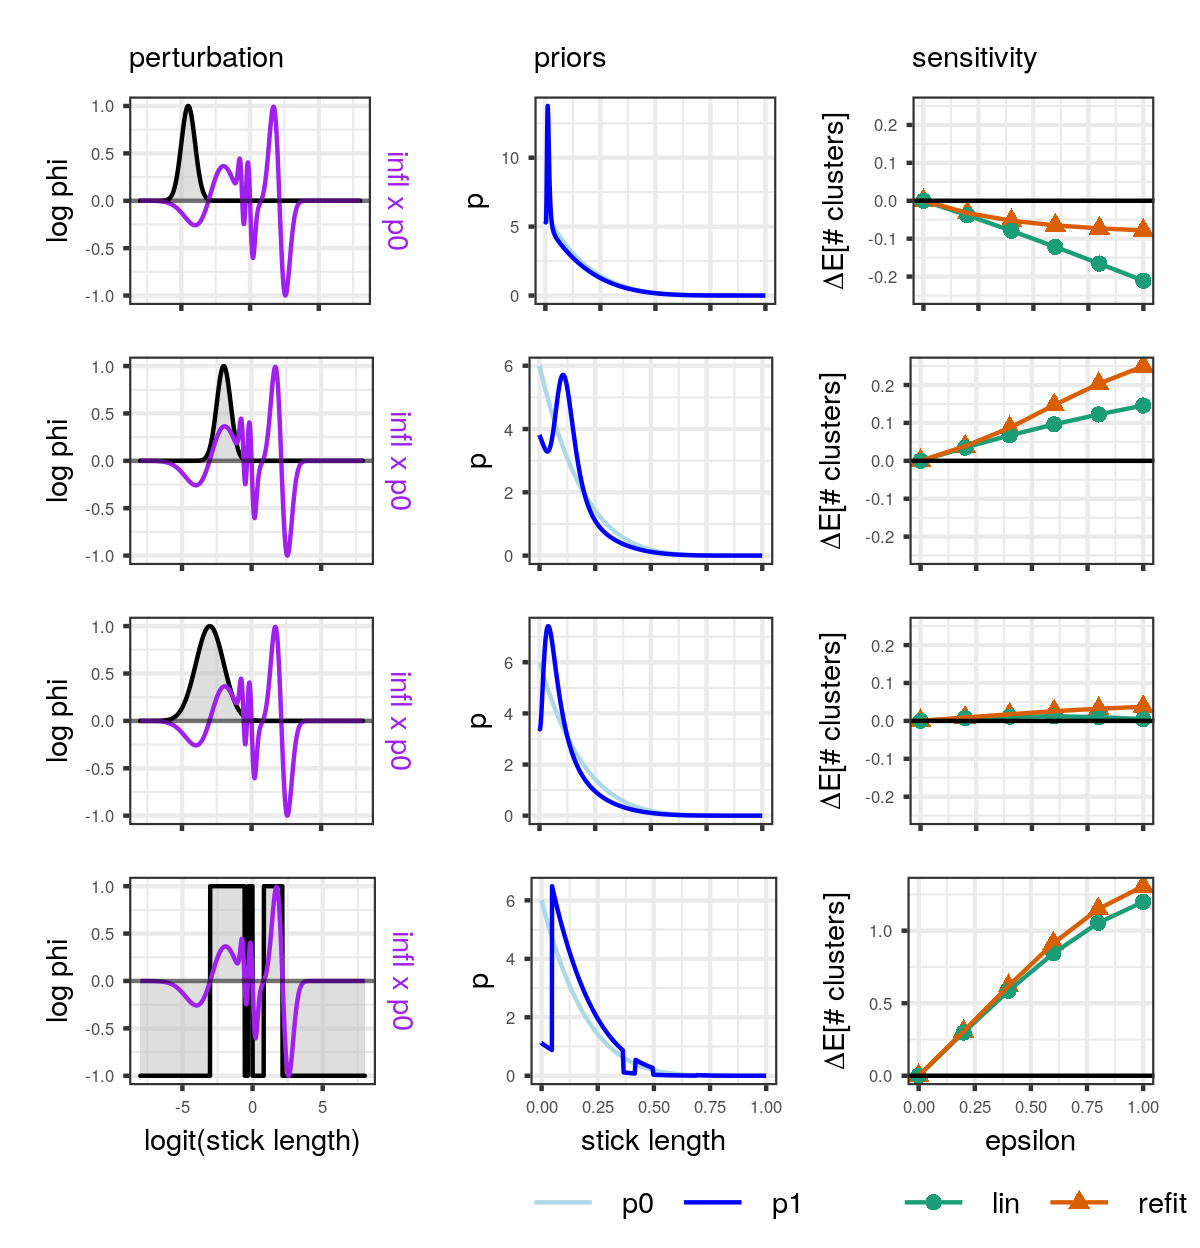
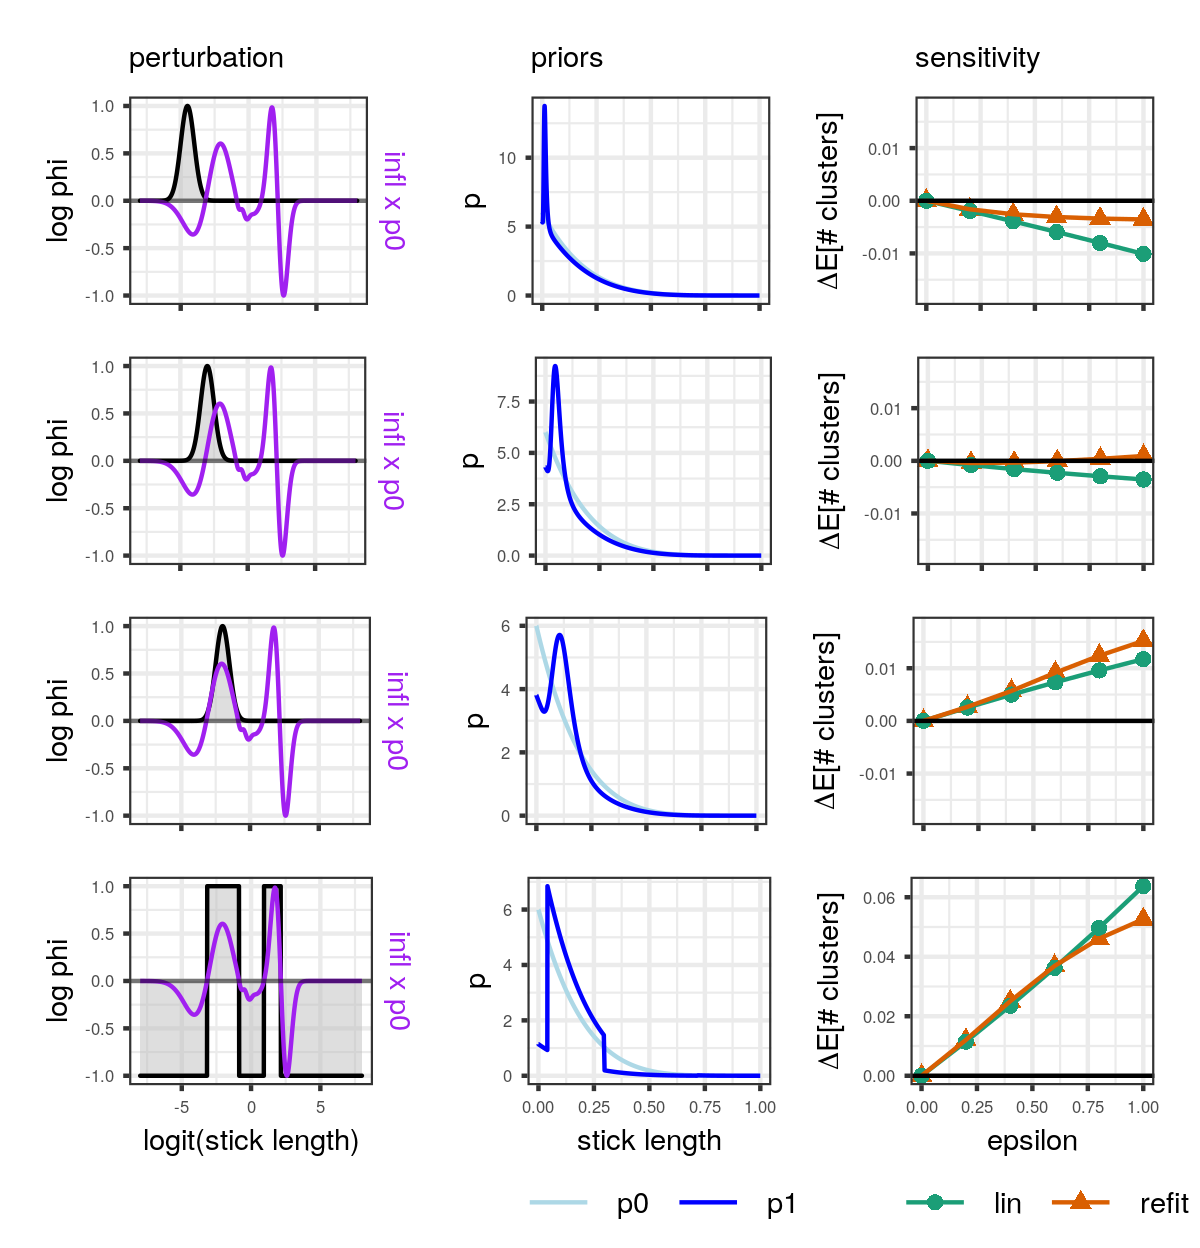
update iris influence figure

diff --git a/writing/journal_paper/iris_experiments.tex b/writing/journal_paper/iris_experiments.tex
@@ -38,26 +38,26 @@ We wish to evaluate the sensitivity of the expected number of clusters to the
 stick-breaking distribution. 
 Define the expected number of \textit{in-sample} clusters as
 \begin{align*}
-\g_{\text{n.cl}}(\eta) &= \expect{\q(\z\vert\eta)}{\sum_{k=1}^\kmax \ind{ \sum_{n=1}^{N}
+\gclusters(\eta) &= \expect{\q(\z\vert\eta)}{\sum_{k=1}^\kmax \ind{ \sum_{n=1}^{N}
 \z_{\n\k} > 0}} \\ 
 &= \sum_{k=1}^\kmax \left(1 -  \prod_{n=1}^N
 \left(1 - \expect{\q(\z_{nk}\vert\eta)}{\z_{nk}}\right)\right).
 \end{align*}
 %
-The in-sample quantity $\g_{\text{n.cl}}$ is an estimate for 
+The in-sample quantity $\gclusters$ is an estimate for 
 the number of species present in the observed iris dataset. 
 Alternatively, we can define a {\itshape posterior predictive} quantity, 
 which is an estimate of the number of species one would expect to see 
 should a new iris dataset of size $N$ be collected.
 Define the posterior predictive number of clusters as 
 \begin{align*}
-g_{\text{n.cl.pred}}(\eta) = \expect{\q(\nu\vert\eta)}{\sum_{k}^\kmax\left(1 -
+\gclusterspred(\eta) = \expect{\q(\nu\vert\eta)}{\sum_{k}^\kmax\left(1 -
 (1 - \pi_k)^N\right)},
 \end{align*}
 where recall that $\pi_k$ are the mixture weights computed from the stick-lengths, $\pi_\k = \nuk \prod_{\k' < \k} (1 - \nu_{\k'})$.
 
 We first consider the sensitivity of these posterior quantities 
-$g_{\text{n.cl.}}$ and $g_{\text{n.cl.pred}}$ 
+$\gclusters$ and $\gclusterspred$ 
 to the prior parameter $\alpha$. 
 \figref{beta_priors} displays the probability density functions 
 $\pstick(\nuk \vert \alpha) = \betadist{\nuk \vert 1, \alpha}$ 
@@ -106,13 +106,15 @@ On the other hand, to form the path of $g$ by refitting at each $\alpha$ in
 
 }
 
-\caption[The expected number of posterior predictive clusters as $\alpha$ varies in the 
-the BNP-GMM fit of the iris data]{The expected number of posterior predictive clusters as $\alpha$ varies in the 
-the BNP-GMM fit of the iris data.  
+\caption[The expected number of clusters as $\alpha$ varies in the 
+the BNP-GMM fit of the iris data]{The expected number of clusters as $\alpha$ varies in the 
+the BNP-GMM fit of the iris data. 
+On the left is the sensitivity of the in-sample quantity.  
+On the right is the the predictive quantity. 
 We compute the linear approximation at $\alpha=6$ and
 extrapolate the expected number of clusters using the
 linear approximation (green).
-We compare against the expected number of clusters obtained by refitting the model at each $\alpha$ (orange). In the right plot, the threshold was set at $t = 5$. }\label{fig:iris_alpha_sens}
+We compare against the expected number of clusters obtained by refitting the model at each $\alpha$ (orange). }\label{fig:iris_alpha_sens}
 \end{figure}
 
 
@@ -128,7 +130,7 @@ We compare against the expected number of clusters obtained by refitting the mod
 }
 
 \caption{Sensitivity of
-        the expected number of posterior predictive clusters in the iris dataset
+        the expected number of in-sample clusters in the iris dataset
         to four multiplicative perturbations with 
         $L_{\infty}$-norm equal to one. 
         (Left) The log multiplicative perturbation $\log\phi$ in grey.        
@@ -143,4 +145,14 @@ We compare against the expected number of clusters obtained by refitting the mod
 
 \end{knitrout}
 
+
+% \begin{table}[tb]
+% \centering
+% \caption{Timing results on the iris dataset. }
+% \begin{tabular}{|l|r|}
+%     \hline
+%     foo & 1.2
+%     \hline
+% \end{tabular}
+% \end{table}
 

diff --git a/writing/journal_paper/_math_defs.tex b/writing/journal_paper/_math_defs.tex
@@ -101,3 +101,7 @@
 \def\mathwhere{\quad\textrm{where}\quad}%
 \def\constdesc#1{\textrm{(}\const\textrm{ does not depend on }#1\textrm{)}}
 \def\assuitemref#1#2{\assuref{#1} (\itemref{#2})}%
+
+% some posterior statistics
+\newcommand{\gclusters}{g_{\text{cl}}}
+\newcommand{\gclusterspred}{g_{\text{p.cl}}}
